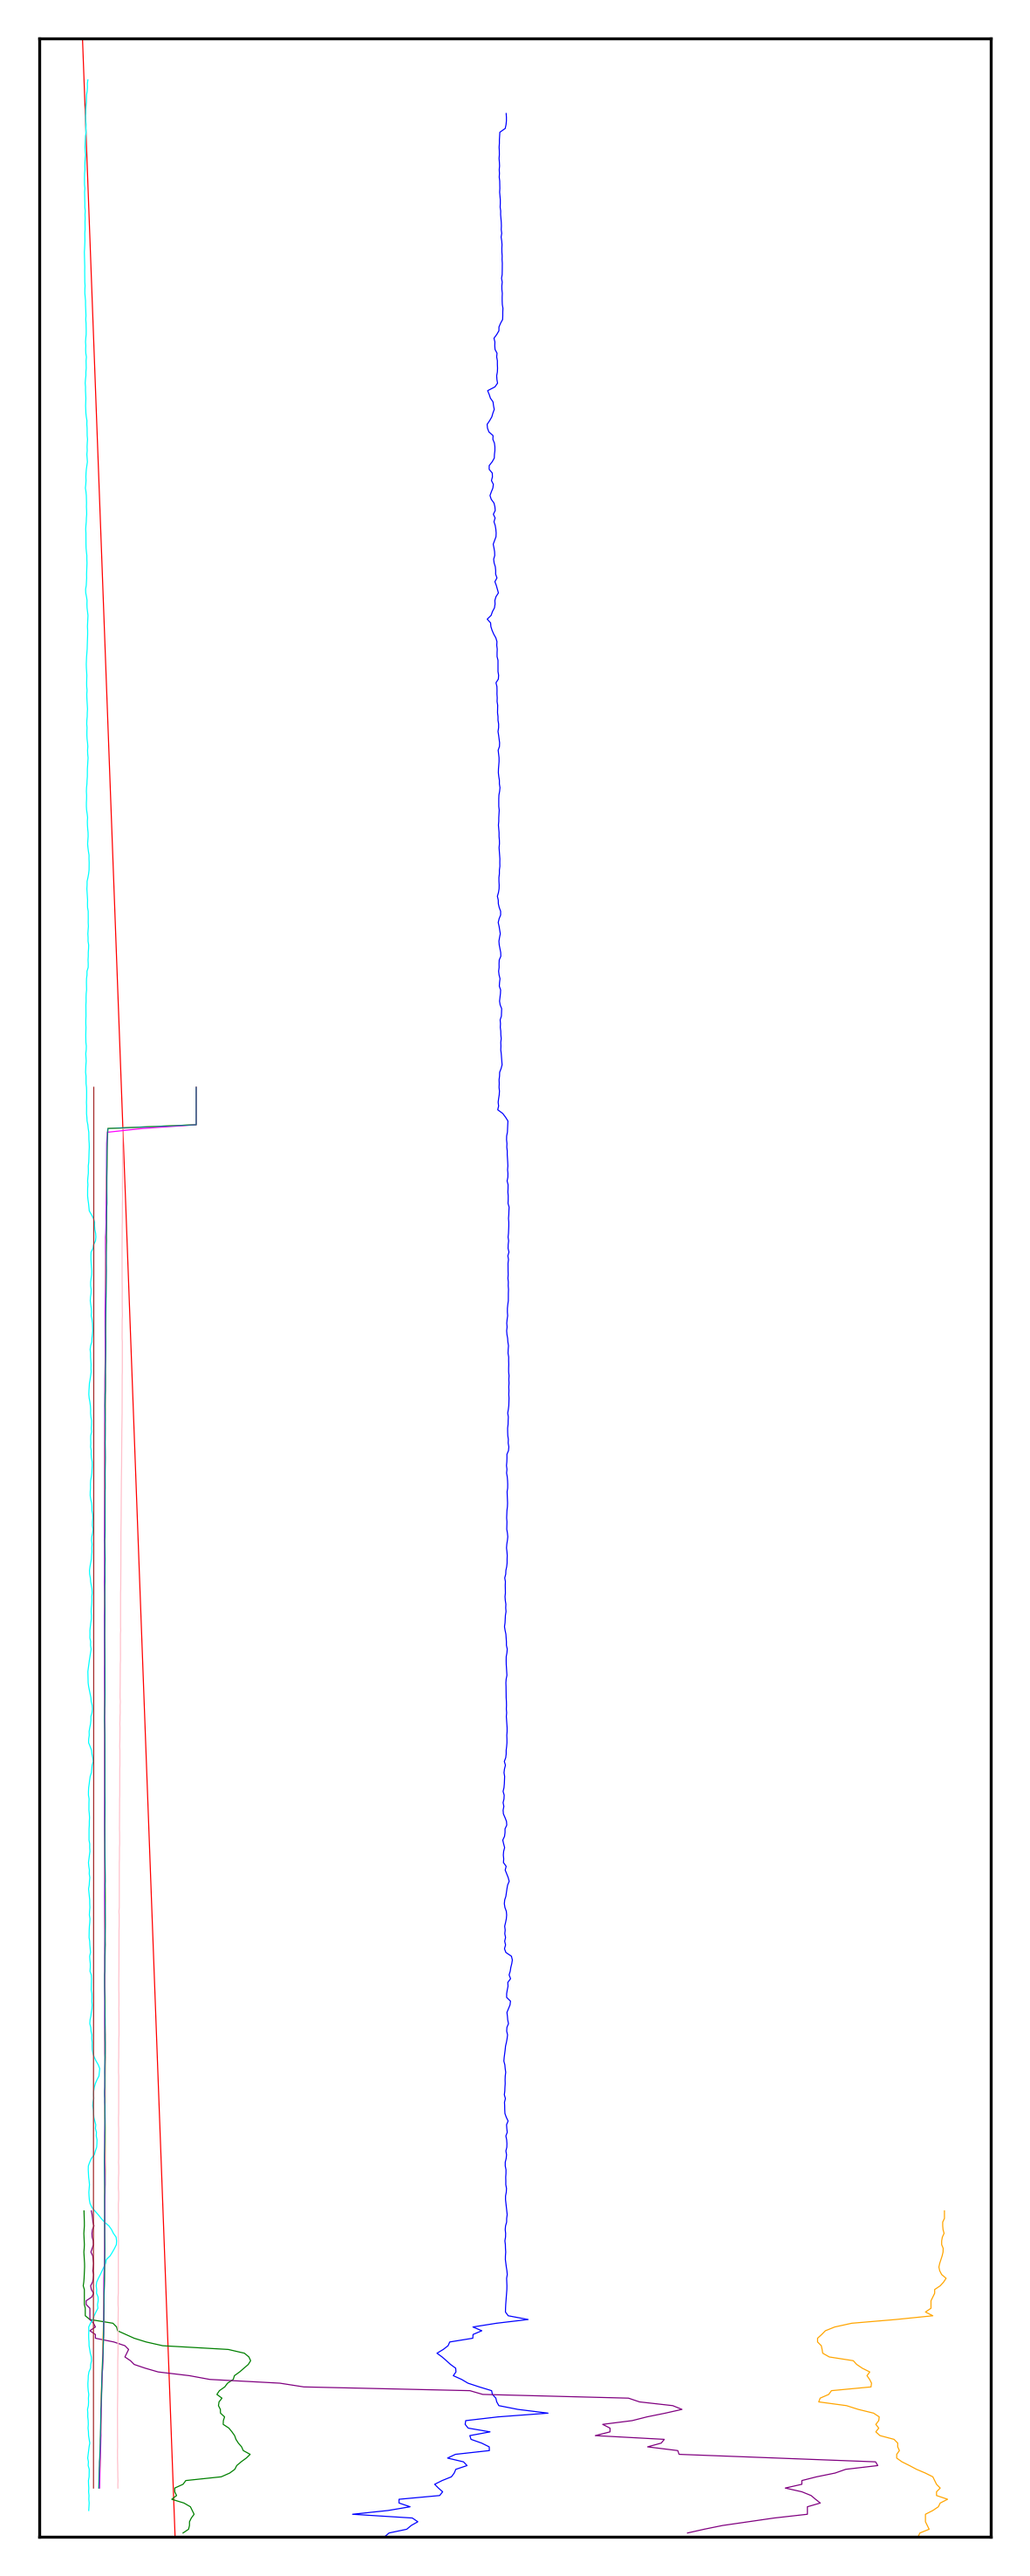
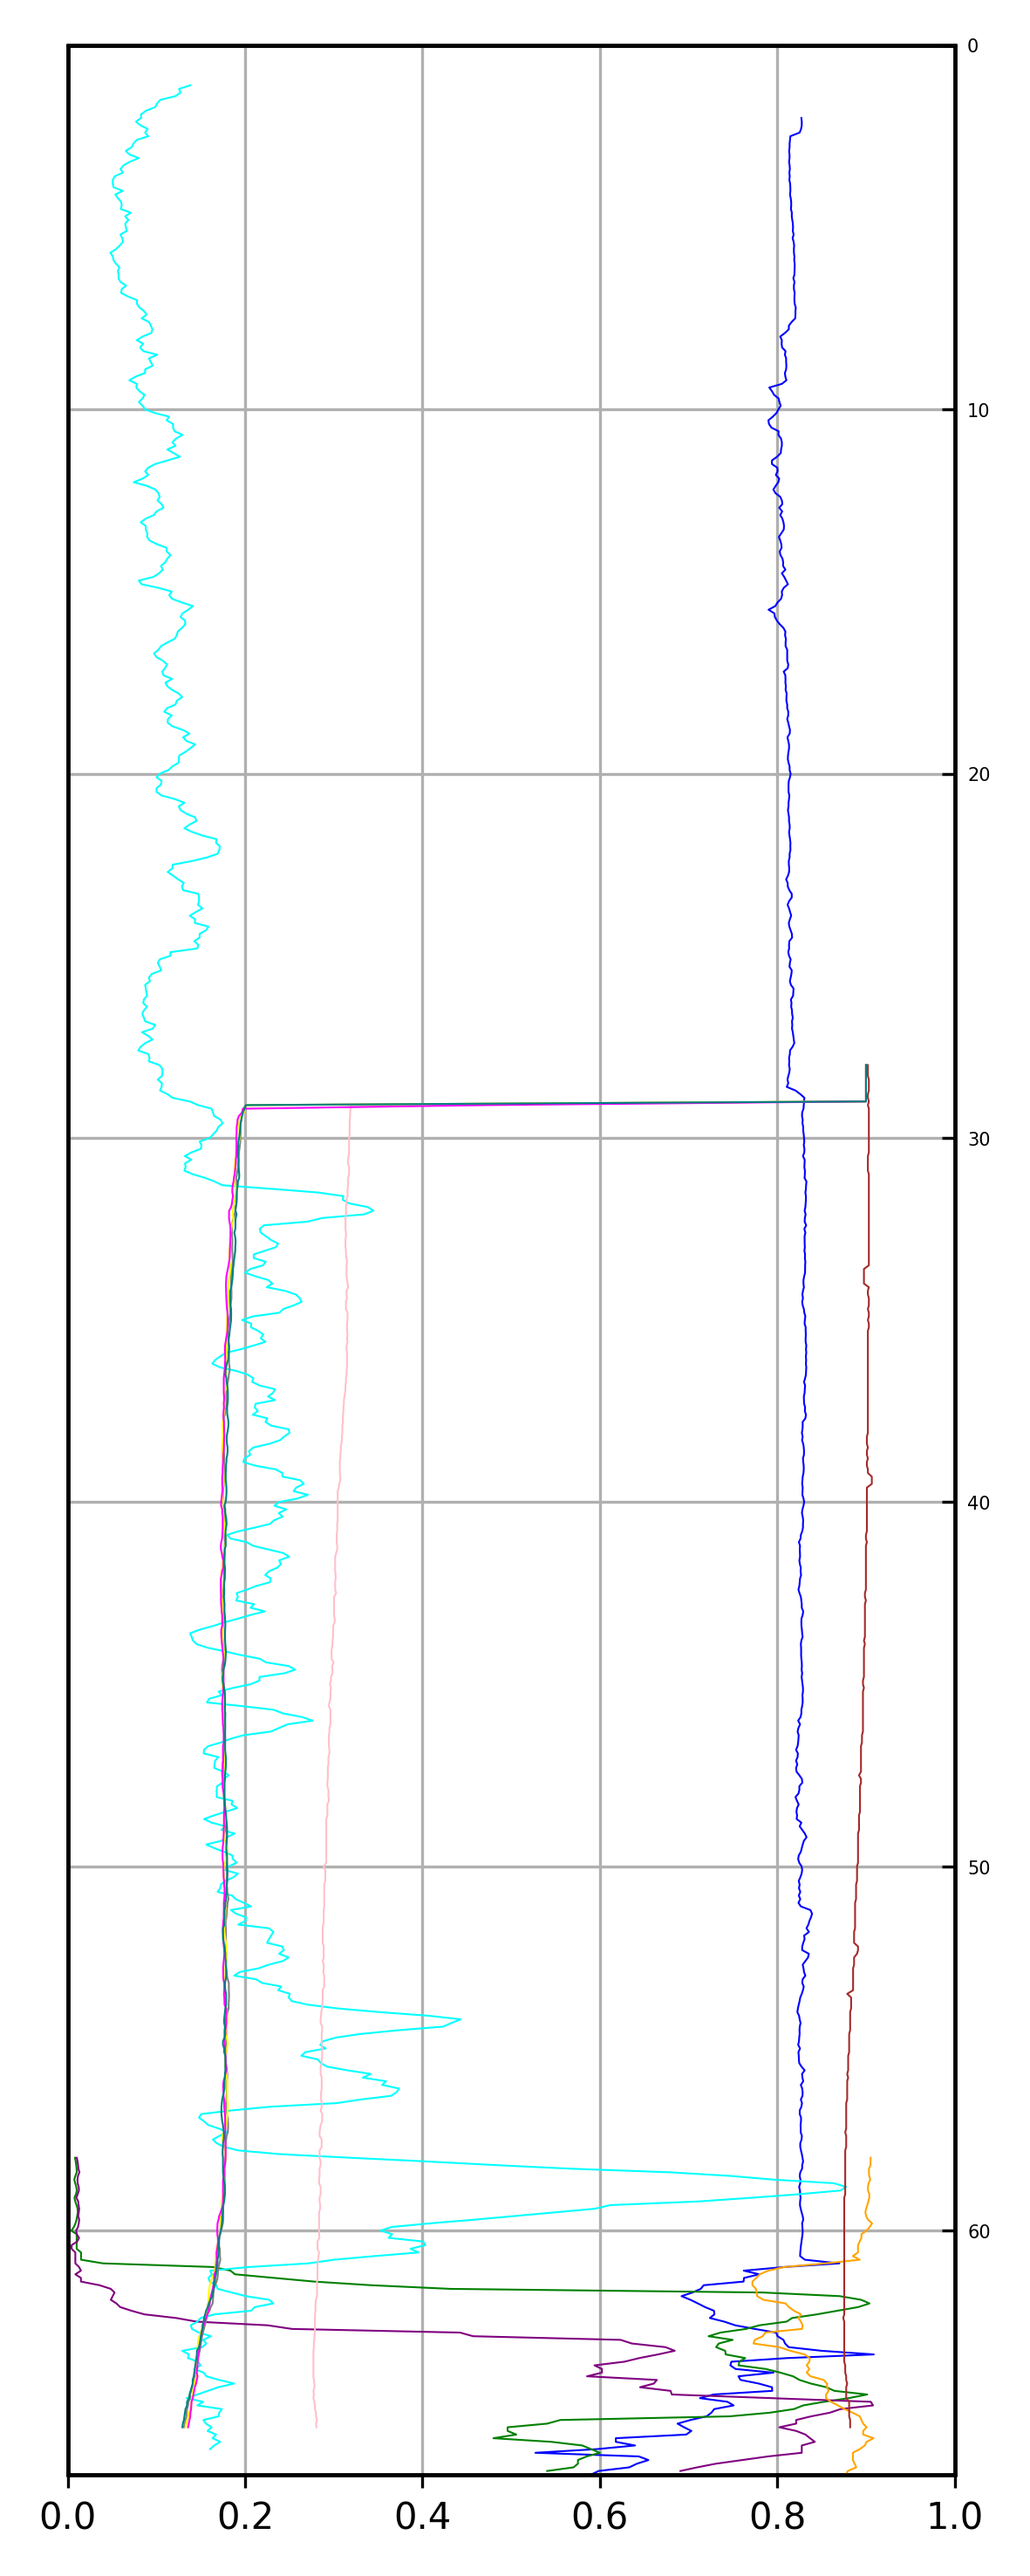
немного переработал геофизику

diff --git a/src/well_section_counter/geophys.py b/src/well_section_counter/geophys.py
@@ -1,13 +1,16 @@
 import lasio
 import matplotlib.pyplot as plt
+import math
+import numpy as np
 
 
-def lac_read(way="maindir/src/well_section_counter/1.las"):
+def lac_read(way="well_section_counter/1.las"):
     # чтение файла
     las = lasio.read(way)
     # чтение ключей из файла
     keys = las.keys()
     print(keys)
+
     # задание размеров рисунка в мм
     width_mm = 100
     height_mm = 250
@@ -15,7 +18,7 @@ def lac_read(way="maindir/src/well_section_counter/1.las"):
     label_fontsize = 5
     axis_label_fontsize = 5
     # толщина линии
-    line = 0.3
+    line = 0.5
 
     # Конвертация в дюймы
     width_inch = width_mm / 25.4
@@ -24,7 +27,7 @@ def lac_read(way="maindir/src/well_section_counter/1.las"):
     fig, ax1 = plt.subplots(figsize=(width_inch, height_inch))
     # массив цветов
     colors = [
-        "red",
+        "None",
         "blue",
         "green",
         "purple",
@@ -42,25 +45,43 @@ def lac_read(way="maindir/src/well_section_counter/1.las"):
     ]
     # словарь метод:цвет
     data_dict = dict(zip(keys, colors))
-    print(data_dict)
     # глубина
     dept = las["DEPT"]
     ax1.set_ylim(0, dept[-1])
     ax1.invert_yaxis()
     plt.grid(True)
+
     for key, color in data_dict.items():
         data = las[key]
-        ax1.set_yticks([])
-        ax1.set_yticklabels([])
-        ax1.set_xticks([])
-        ax1.set_xticklabels([])
-        ax1.plot(data, dept, color=color, label=key, linewidth=line)
-
-    fig.tight_layout()
-    # сохранение изображения
-    fig.savefig(
-        "maindir/src/well_section_counter/log.png", dpi=300, orientation="portrait"
+        valid_data = data[~np.isnan(data)]
+        ax = ax1.twiny()
+        ax.plot(data, dept, color=color, label=key, linewidth=line)
+        print(key)
+        ax.set_xlim(0, math.ceil(max(valid_data)+0.1 * max(valid_data)))
+        print(math.ceil(max(valid_data)+0.1 * max(valid_data)))
+        ax.invert_yaxis()
+        ax.set_xticks([])
+        ax.set_xticklabels([])
+    # параметры вертикальной оси
+    ax1.set_yticks(np.arange(0, dept[-1] + 1, step=10))
+    ax1.tick_params(
+        axis="y",
+        which="both",
+        direction="in",
+        labelsize=axis_label_fontsize,
     )
+    # перенос вправо делений оси глубины
+    ax1.yaxis.tick_right()
+    ax1.yaxis.set_label_position("right")
+    # округление оси глубины
+    # ax1.yaxis.set_major_locator(plt.MultipleLocator(10))
+    """    ax1.spines["left"].set_position(("outward", -10))
+    ax1.spines["left"].set_linewidth(0.5)
+    ax1.spines["left"].set_color("black")"""
+    fig.tight_layout()
+
+    # сохранение изображения
+    fig.savefig("well_section_counter/log.png", dpi=300, orientation="portrait")
 
 
 lac_read()

diff --git a/src/well_section_counter/geophys copy.py b/src/well_section_counter/geophys copy.py
@@ -1,0 +1,40 @@
+import lasio
+import matplotlib.pyplot as plt
+import numpy as np
+
+
+las = lasio.read("maindir/src/well_section_counter/1.las")
+fig, ax1 = plt.subplots(figsize=(4, 12))
+Keys = las.keys()
+gr = las["D"]
+dept = las["DEPT"]
+ngl = las["PZ"]
+dtp = las["RM"]
+
+color = "tab:red"
+ax1.set_ylabel("Depth, m")
+ax1.set_xlabel("GR, gAPI", color=color)
+ax1.plot(gr, dept, color=color, label=str(Keys[1]))
+ax1.tick_params(axis="x", labelcolor=color)
+
+ax2 = ax1.twiny()
+
+color = "tab:blue"
+ax2.set_xlabel("NGL, m3/m3", color=color)
+ax2.plot(ngl, dept, color=color, label="NGL")
+ax2.tick_params(axis="x", labelcolor=color)
+
+ax3 = ax1.twiny()
+
+color = "tab:green"
+ax3.set_xlabel("DTP, us/ft", color=color)
+ax3.plot(dtp, dept, color=color, label="DTP")
+ax3.tick_params(axis="x", size=12, labelcolor=color, pad=40)
+
+plt.grid(True)
+# plt.legend(loc='upper right')
+
+fig.tight_layout()
+
+# сохранение изображения
+fig.savefig("maindir/src/well_section_counter/log.png", dpi=300, orientation="portrait")
